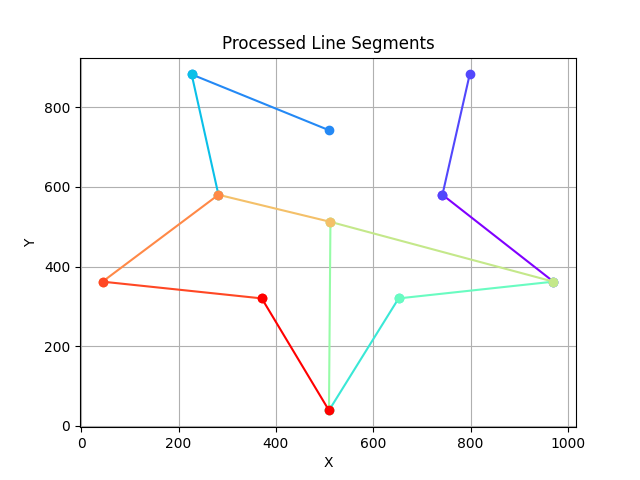
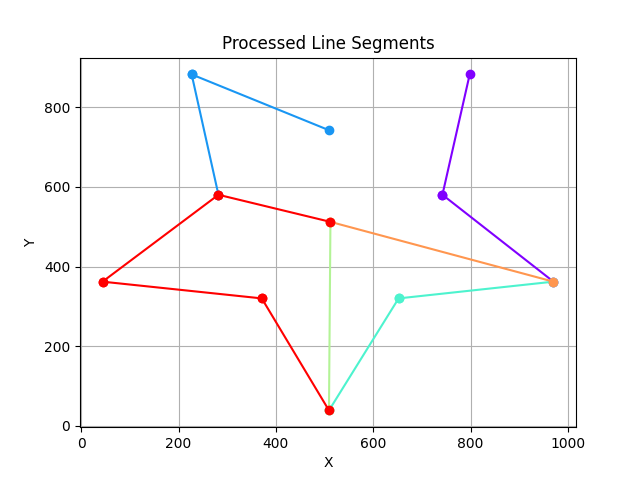
...

diff --git a/simpleLines.py b/simpleLines.py
@@ -105,8 +105,7 @@ for linegement in all_lines:
         print(f"Start: ({line.p1.x}, {line.p1.y}), End: ({line.p2.x}, {line.p2.y})")
 
 # Generate a list of colors
-num_segments = sum(len(linegement) for linegement in all_lines)
-colors = cm.rainbow(np.linspace(0, 1, num_segments))
+colors = cm.rainbow(np.linspace(0, 1, len(all_lines) ))
 
 # Plot all line segments with different colors
 plt.figure()
@@ -118,8 +117,8 @@ plt.grid(True)
 color_index = 0
 for linegement in all_lines:
     for line in linegement:
-        plt.plot([line.p1.x, line.p2.x], [line.p1.y, line.p2.y], marker='o', color=colors[color_index])
-        color_index += 1
+      plt.plot([line.p1.x, line.p2.x], [line.p1.y, line.p2.y], marker='o', color=colors[color_index])
+    color_index += 1
 
 plt.savefig('processed_plot.png')
 plt.close()
